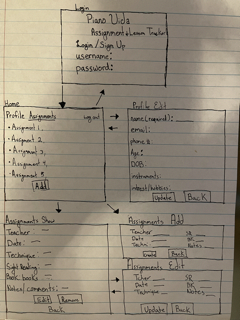
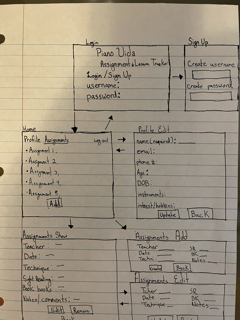
Added planning Scheme, routes, images

diff --git a/README.md b/README.md
@@ -1,20 +1,27 @@
-<!-- Piano Lesson Assignment Tracker -->
+Piano Lesson Assignment Tracker 
 
-![colorscheme](/assets/wireframes/assignments_edit.png)
+![wireframe one](/assets/wireframes/layout.png)
 
-<!-- Students can keep track of lessons and assignments
+-- Students can keep track of lessons and assignments
 
 --Login Screen
-As a student, see a login screen where you login to the app or click sign up to create a username and password. If you already have a username and password, you can enter your username and password. Signing in will take you to your home page.
  
+As a student, see a login screen where you login to the app or click sign up to create a username and password. If you already have a username and password, you can enter your username and password. Signing in will take you to your home page. 
+ 
+ ![wireframe two](/assets/wireframes/login.png)
+ ![wireframe three](/assets/wireframes/sign_up.png)
+
 --Sign Up
-As a student, click on the Sign Up link to open the sign up page. The student will create a username and password and then be returned to the Login Page.
+As a student, click on the Sign Up link to open the sign up page. The student will create a username and password and then be returned to the Login Page. 
 
 --Index/Home Page
 As a student, see that you are signed in. See an option to sign out. 
     See a link to your profile information. Clicking on the Edit Profile link will take you to the Edit Profile Page. 
 
-    See a link to your assignments. On click, a list of assignments will display.
+    As a student, See a link to your assignments. On click, a list of assignments will display. 
+
+![wireframe four](/assets/wireframes/home.png)
+
 
 --Edit Profile Page
 Clicking on the edit profile link will show a form to update profile information. Student can input their
@@ -28,8 +35,10 @@ Clicking on the edit profile link will show a form to update profile information
      address, 
      intrest/hobbies, 
      skill-level(number between 1-10)
-User returns to home page on submit.
+User returns to home page on submit. 
 
+ ![wireframe five](/assets/wireframes/profile_edit.png)
+X
 --Assignments Page
 As a Student see a list of all assignments. Student can click ADD or REMOVE to create a new assignment or Delete an assignment. Clicking on an assignment will take you to an assignment show page. Each assignment will show:
     Teacher: Teacher who gave the assignment
@@ -38,8 +47,55 @@ As a Student see a list of all assignments. Student can click ADD or REMOVE to c
     Sight Reading Assignment: 
     Book: books and page number
     Notes/comments:
-On Sumbit
+On Sumbit 
+
+ ![wireframe six](/assets/wireframes/assignments_add.png)
+ ![wireframe six](/assets/wireframes/assignments_show.png)
+ ![wireframe seven](/assets/wireframes/assignments_edit.png)
+ 
+
+Goals: 
+1. Student can login successfully.
+2. Student can see and update profile information.
+3. Student can keep track of lesson assignments. Add and Remove assignments. 
+
+Stretch:
 
 
+complete ERDs for both models AND user model (3 models in total)
 
- -->
+![ERD](/assets/wireframes/ERD/ERD.png)
+![Table Routes](/assets/wireframes/routes/routes_table.png)
+
+at least 15 user stories
+
+at least 8 wireframes
+
+a list of APIs or NPM packages or an overview of the seeded data (which requires 10 documents)
+
+npm
+express
+mongoose
+morgan
+liquid
+liquid express views
+method override
+bcrypt
+
+NOTE: seeded data does not have to be completely built out in the planning stages, just some indication of an idea of what will be seeded.
+
+assignments 1-12, each containing a major scale, one octave
+
+
+a routes table demonstrating the full CRUD actions for at least one resource
+
+Name    |   Path                 |   HTTP VERB  |   PURPOSE                           |
+Index   |   /assignments         |       GET    |   Displays all assignments          | 
+Index   |   /login               |       GET    |   Displays all assign post          | 
+New     |   /assignments/new     |       GET    |   Shows new form for new assign entry|
+Create  |   /assignments/        |       POST   |   Creates a new assign post          |
+Show    |   /assignments/:id     |       GET    |   Shows one specified assign post    |
+Edit    |   /assignments/        |       GET    |   Shows edit form for one assign post|
+Update  |   /assignments/:id/edit|       PUT    |   Updates a particular assign post   |
+Destroy |   /assignments/:id     |       DELETE |   Delete a particular assign post    |
+

diff --git a/planning.md b/planning.md
@@ -1,42 +1,25 @@
-Piano Vida
+Models: user, profile, assignments
 
-Students can keep track of lessons and assignments
+userSchema
+    username: string
+    password: {type: password}
 
---Login Screen
-As a student, see a login screen where you login to the app or click sign up to create a username and password. If you already have a username and password, you can enter your username and password. Signing in will take you to your home page.
- 
---Sign Up
-As a student, click on the Sign Up link to open the sign up page. The student will create a username and password and then be returned to the Login Page.
+assignmentsSchema
+    Teacher: string
+    Date: date
+    Technique: string
+    Sight Reading: string
+    Book: string
+    Notes/comments: string
 
---Index/Home Page
-As a student, see that you are signed in. See an option to sign out. 
-    See a link to your profile information. Clicking on the Edit Profile link will take you to the Edit Profile Page. 
-
-    See a link to your assignments. On click, a list of assignments will display.
-
---Edit Profile Page
-Clicking on the edit profile link will show a form to update profile information. Student can input their
-     name(required), 
-     parent/Gardian(required if over 18), 
-     email, 
-     phone number, 
-     Age(number), 
-     Date of Birth, 
-     instruments, 
-     address, 
-     intrest/hobbies, 
-     skill-level(number between 1-10)
-User returns to home page on submit.
-
---Assignments Page
-As a Student see a list of all assignments. Student can click ADD or REMOVE to create a new assignment or Delete an assignment. Clicking on an assignment will take you to an assignment show page. Each assignment will show:
-    Teacher: Teacher who gave the assignment
-    Date: date that the assignment was created.
-    Technique: (Excercises, etudes, scales, arpeggios)
-    Sight Reading Assignment: 
-    Book: books and page number
-    Notes/comments:
-On Sumbit
+profileSchema  
+    name: string
+    email: string
+    phone: number(phone number)
+    age: number
+    DOB: number
+    instrument: string
+    intrest/hobbies: string
 
 
 
